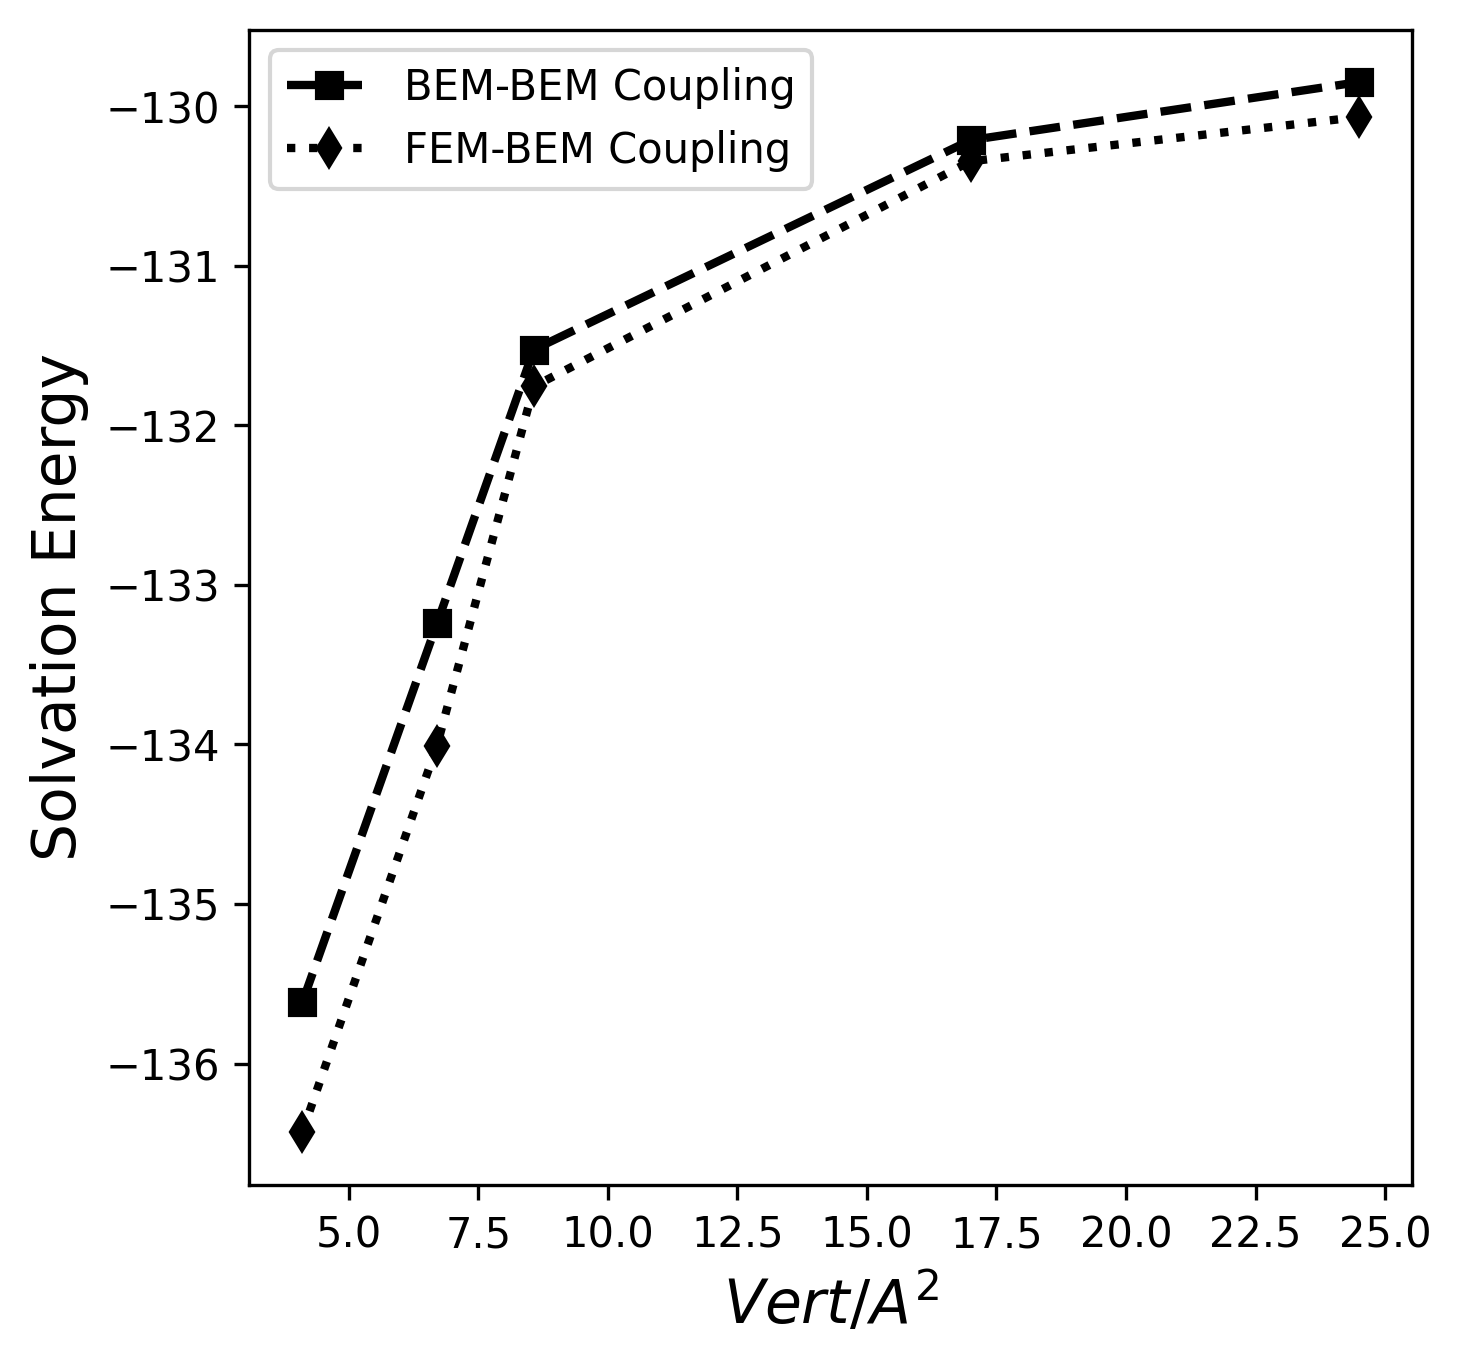
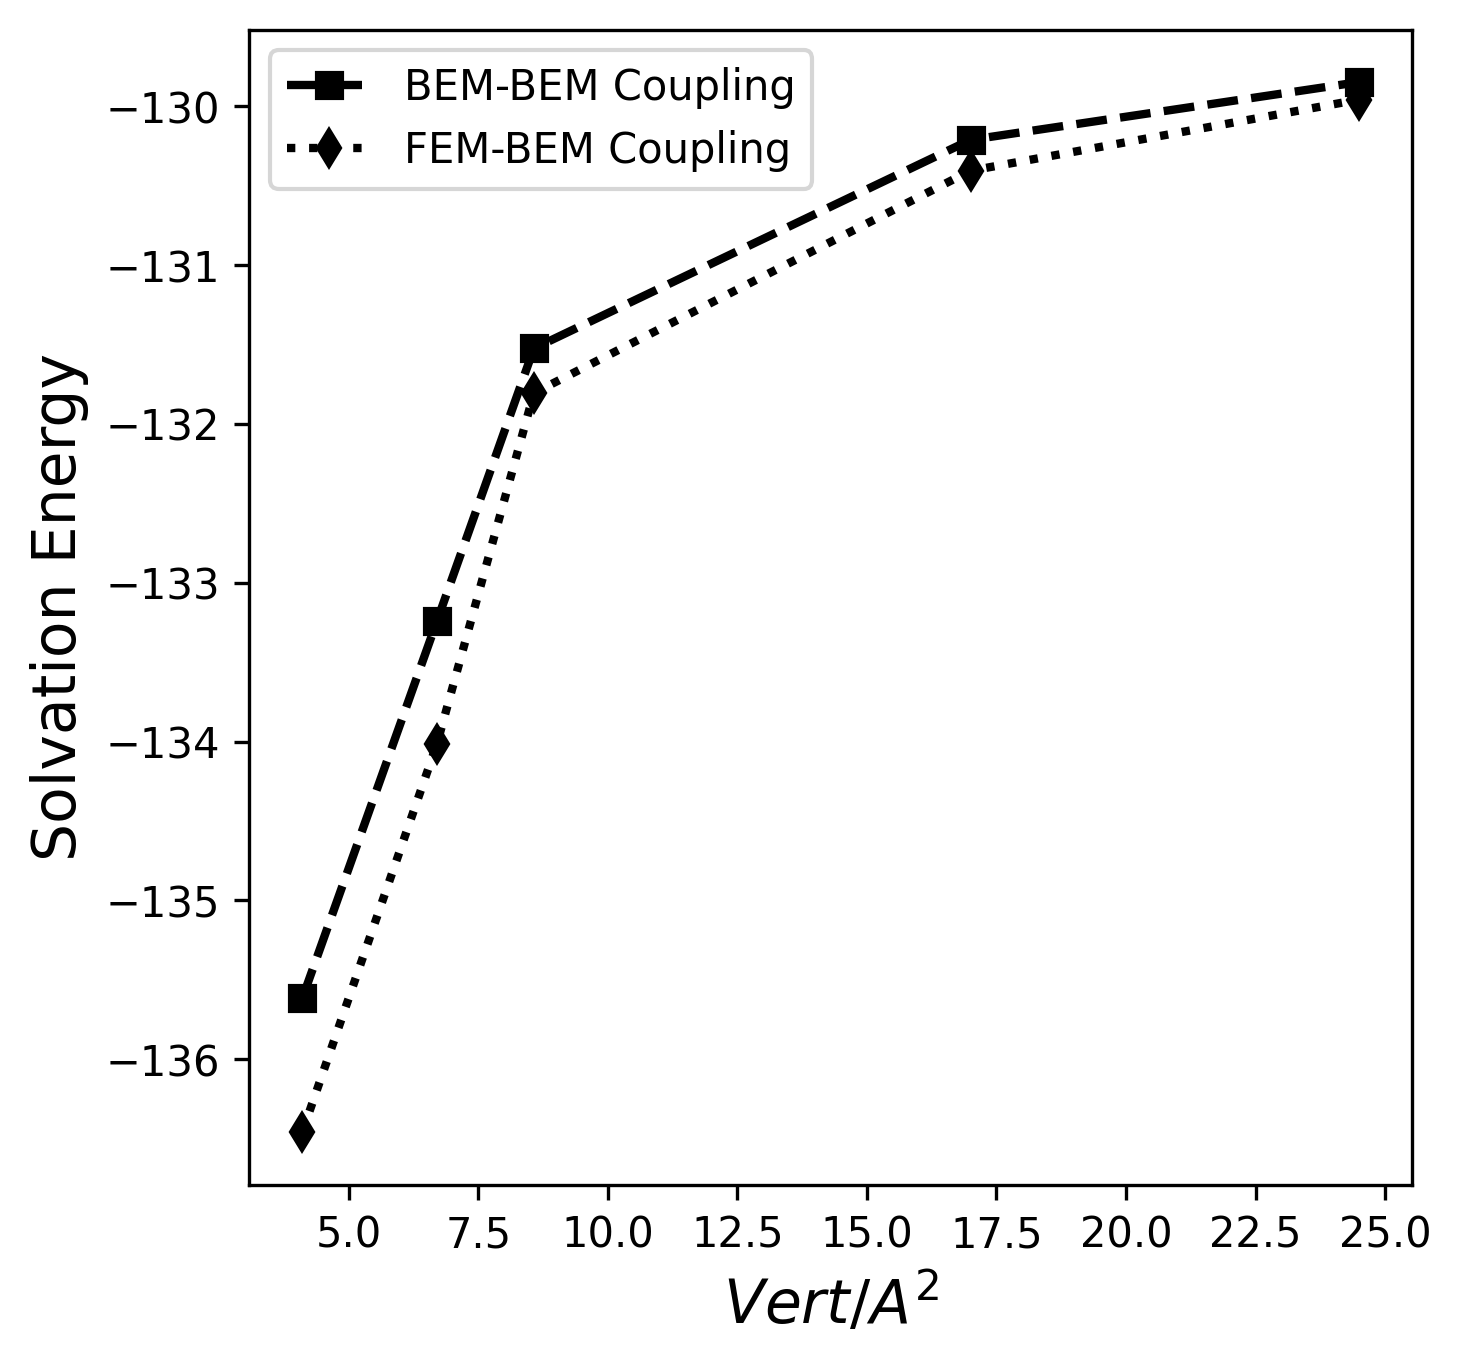
Updated results, comparison for tol = 1e-4 and 1e-5

diff --git a/results.tex b/results.tex
@@ -37,8 +37,9 @@ The error in Figure \ref{fig:error_sphere} decays linearly with the surface area
 
 \begin{figure}
   \centering
-  \includegraphics[width=0.5\linewidth]{DolfinX_Sphere_const_coeff_error.png}
-  \caption{Error for the Kirkwood sphere.}
+  \includegraphics[width=0.45\linewidth]{DolfinX_Sphere_const_coeff_error_1e-4.png}
+  \includegraphics[width=0.45\linewidth]{DolfinX_Sphere_const_coeff_error.png}
+  \caption{Error for the Kirkwood sphere.  \textcolor{blue}{(LEFT: $tol = 10^{-4}$, RIGHT: $tol = 10^{-5}$)}}
   \label{fig:error_sphere}
 \end{figure}
 
@@ -57,27 +58,26 @@ Figure \ref{fig:arg2_constant_time_iter} compares the iteration count and time-t
 
 \begin{figure}
 \centering
-   \includegraphics[width=0.5\linewidth]{DolfinX_Arginine2_const_coeff_error.png}
+   \includegraphics[width=0.45\linewidth]{DolfinX_Arginine2_const_coeff_error_1e-4.png}
+   \includegraphics[width=0.45\linewidth]{DolfinX_Arginine2_const_coeff_error.png}
 %   \includegraphics[width=0.47\linewidth]{DolfinX_Arginine_const_coeff_error_11.png}
-\caption{Solvation energy for arginine with a constant permittivity. %(left - Arginine2 and right - Arginine)
-%maybe we could also add a "error" wrt extrapolation, or a plot with energy for each mesh?
-}
+\caption{Solvation energy for arginine with a constant permittivity.  \textcolor{blue}{(LEFT: $tol = 10^{-4}$, RIGHT: $tol = 10^{-5}$)}}
 \label{fig:arg_constant_energy}
 \end{figure}
 
 \begin{figure}
 \centering
-   \includegraphics[width=0.45\linewidth]{DolfinX_Arginine2_const_coeff_iter.png}
+   \includegraphics[width=0.45\linewidth]{DolfinX_Arginine2_const_coeff_iter_1e-4.png}
 %  \includegraphics[width=0.45\linewidth]{DolfinX_Arginine2_const_coeff_time.png}
 %  \includegraphics[width=0.45\linewidth]{DolfinX_Arginine2_const_coeff_setup_time.png}
-  \includegraphics[width=0.45\linewidth]{DolfinX_Arginine2_const_coeff_total_time.png}
+  \includegraphics[width=0.45\linewidth]{DolfinX_Arginine2_const_coeff_total_time_1e-4.png}
 %   \includegraphics[width=0.45\linewidth]{DolfinX_Arginine_const_coeff_iter_11.png}
 %%  \includegraphics[width=0.45\linewidth]{DolfinX_Arginine_const_coeff_time_11.png}
 %%  \includegraphics[width=0.45\linewidth]{DolfinX_Arginine_const_coeff_setup_time_11.png}
 %  \includegraphics[width=0.45\linewidth]{DolfinX_Arginine_const_coeff_total_time_11.png}
-  \caption{Iteration count (left) and time-to-solution (right) for arginine with a constant permittivity. %(left: Online time taken to solve systems, right: Offline time taken to set up systems). 
-%NOTE: x axis differ between top and bottom. Also, should we include preconditioned vs non preconditioned? We could easily precondition BEM-BEM too.  %(1) fix title, (2) can we put them in a single plot, (3) 
-%maybe we could also add a "error" wrt extrapolation, or a plot with energy for each mesh?
+   \includegraphics[width=0.45\linewidth]{DolfinX_Arginine2_const_coeff_iter.png}
+  \includegraphics[width=0.45\linewidth]{DolfinX_Arginine2_const_coeff_total_time.png}
+  \caption{Iteration count (left) and time-to-solution (right) for arginine with a constant permittivity.  \textcolor{blue}{(UP: $tol = 10^{-4}$, DOWN: $tol = 10^{-5}$)}
 }
 \label{fig:arg2_constant_time_iter}
 \end{figure}
@@ -140,7 +140,7 @@ Other implementations of Gaussian permittivities also modify the solute permitti
 \subsection*{\sffamily \large Convergence for arginine with APBS}
 
 We used Equation \eqref{eq:varying_eps} to generate dielectric maps, which we ran on APBS~\cite{BakerETal2001} for comparison. 
-We chose APBS because it provides an easy interface to control dielectric maps, in order to ensure their agreement with the maps imposed in our FEM-BEM coupled approach.
+We chose APBS because it provides an easy interface to control dielectric maps to ensure their agreement with the maps imposed in our FEM-BEM coupled approach.
 
 Table \ref{table:arg_variable} shows a comparison of solvation energy computed with APBS and our FEM-BEM coupling approach. We can see that they are both converging to equivalent values, where the finest meshes agree up to 0.5\% (0.5 kcal/mol). The coarsest meshes used in both cases are within the recommended densities for accurate solvation energy simulations with constant permittivity. For example, a finite difference mesh with $h$=0.5 \AA~ or less is recommended for binding energy calculations\cite{sorensen2015comprehensive} (the result of subtracting two solvation energies), and a similar study with BEM\cite{CooperBardhanBarba2014} showed that a mesh with 2 vertices per \AA$^2$ gives acceptable results when computing binding and solvation energies. We see a jump in the solvation energy for the FEM-BEM results going from 4.1 to 6.7 vertices per \AA$^2$, but later the energy monotonically decreases, converging to a solution. This is an indication that mesh requirements for variable permittivities may be tighter than with a constant permittivity, even though the jump in dielectric constant across the molecular surface is usually smaller. 
 
@@ -167,14 +167,15 @@ coupling    & 8.57  & 8 844 & -109.582 \\
     & 17 & 19 911 & -109.350 \\
     & 24.5 & 32 302 & -109.265 \\
 \hline
-%\multirow{5}{*}{Standard FEM-BEM}& 2 & -29.554\\
-%    & 2 & -34.670\\
-%Hybrid    & 4  & -33.603 \\
-%FEM-BEM    & 8  & -32.822 \\
-%    & 16 & -32.072 \\
-%\hline
+%\multirow{5}{*}{Standard FEM-BEM}& 2 & -36.239\\
+    & 4.1 & 3 491 & -109.931 \\
+FEM-BEM    & 6.7  & 5 787 & -110.237 \\
+coupling    & 8.57  & 8 844 & -109.661 \\
+    & 17 & 19 911 & -109.369 \\
+    & 24.5 & 32 302 & -109.315 \\
+\hline
 \end{tabular}
-\caption{Solvation energy of arginine with a Gaussian-like permittivity, computed using the FEM-BEM approach and APBS. The mesh density for FEM-BEM corresponds to the vertex density of the surface mesh used to generate the volumetric mesh.}
+\caption{Solvation energy of arginine with a Gaussian-like permittivity, computed using the FEM-BEM approach and APBS. The mesh density for FEM-BEM corresponds to the vertex density of the surface mesh used to generate the volumetric mesh. \textcolor{blue}{(MIDDLE: $tol = 10^{-4}$, DOWN: $tol = 10^{-5}$)}}
 \label{table:arg_variable}
 \end{table}
 
@@ -225,8 +226,14 @@ Molecule & FEM  & BEM &  $\Delta G_{solv}$ & Iterations & Setup Time & Solving T
  1x1u & 263 181 & 81 258 &  -1 975.068 & 1 911 & 8 240 & 7 410 & 3.88 & 15 650  \\
  1igt & 597 575 & 187 712 &   -3 279.907 & 1 974 & 40 930 & 15 600 & 7.9  &  56 530   \\
  \hline
+  1pgb  & 29 434 &  10 058 &  -300.888 & 703 & 86 & 472 & 0.67 & 789  \\
+ 1lyz  & 56 114 & 18 606 &  -599.310 & 1073 & 336 & 1 350  & 1.26 & 1 686   \\
+ 1x1u & 263 181 & 81 258 & -1 982.085 & 2 791 & 8 340 & 11 000 & 3.94 & 19 340  \\
+ 1igt & 597 575 & 187 712 &  -3 294.0157 & 5 366 & 41 998 & 40 100 &  7.47 & 82 098    \\
+ \hline
 \end{tabular}}
-\caption{Results for larger structures with a variable permittivity.}
+\caption{Results for larger structures with a variable permittivity. \textcolor{blue}{(UP: $tol = 10^{-4}$, DOWN: $tol = 10^{-5}$)}
+}
 \label{table:large_variable}
 \end{table}
 %

diff --git a/main.tex b/main.tex
@@ -127,7 +127,7 @@ Finite element method, Boundary element method, Poisson-Boltzmann, Implicit solv
 
 
 \subsection*{\sffamily \large ACKNOWLEDGMENTS}
-
+MB acknowledges the support from Kingston University through First Kingston University Grant. \\
 CDC acknowledges the support from CCTVal through ANID PIA/APOYO AFB220004.
 %((Place Acknowledgments here))
 
